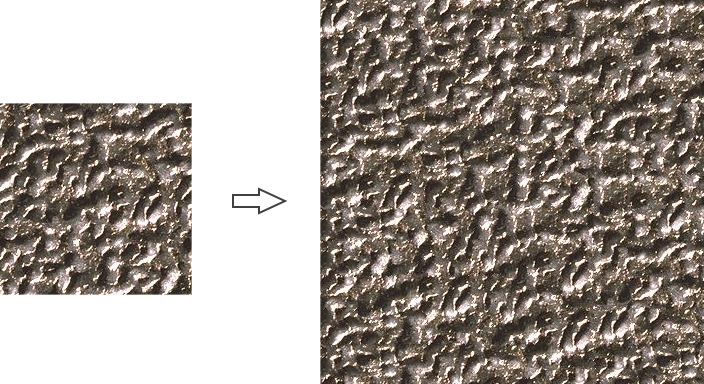
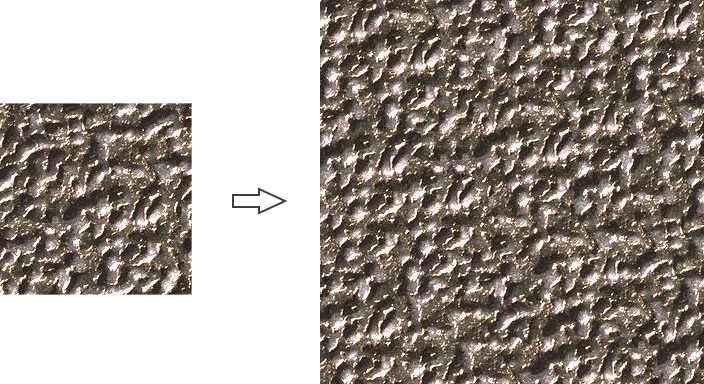
fix min cost boundary evaluation

diff --git a/src/imageQuilting.cpp b/src/imageQuilting.cpp
@@ -99,29 +99,31 @@ namespace
         auto edgeCost = [&](int x, int y)
         {
             return agz::math::sqr(
-                (A(yA + y, xA + x) - B(yB + y, xB + x + 1)).lum());
+                abs(A(yA + y, xA + x) - B(yB + y, xB + x + 1)).lum());
         };
 
         for(int xi = 0; xi < width - 1; ++xi)
             result(0, xi).cost = edgeCost(xi, 0);
 
-        for(int yi = 0; yi < height; ++yi)
+        for(int yi = 1; yi < height; ++yi)
         {
             for(int xi = 0; xi < width - 1; ++xi)
             {
                 const float costLeft = xi > 0 ?
-                    edgeCost(xi - 1, yi) : std::numeric_limits<float>::max();
+                    result(yi - 1, xi - 1).cost : std::numeric_limits<float>::max();
                 const float costMiddle =
-                    edgeCost(xi, yi);
+                    result(yi - 1, xi).cost;
                 const float costRight = xi < width - 2 ?
-                    edgeCost(xi + 1, yi) : std::numeric_limits<float>::max();
+                    result(yi - 1, xi + 1).cost : std::numeric_limits<float>::max();
+
+                const float ec = edgeCost(xi, yi);
 
                 if(costLeft <= costMiddle && costLeft <= costRight)
-                    result(yi, xi) = { costLeft, -1 };
+                    result(yi, xi) = { costLeft + ec, -1 };
                 else if(costMiddle <= costLeft && costMiddle <= costRight)
-                    result(yi, xi) = { costMiddle, 0 };
+                    result(yi, xi) = { costMiddle + ec, 0 };
                 else
-                    result(yi, xi) = { costRight, 1 };
+                    result(yi, xi) = { costRight + ec, 1 };
             }
         }
     }
@@ -141,28 +143,30 @@ namespace
         auto edgeCost = [&](int x, int y)
         {
             return agz::math::sqr(
-                (A(yA + y, xA + x) - B(yB + y + 1, xB + x)).lum());
+                abs(A(yA + y, xA + x) - B(yB + y + 1, xB + x)).lum());
         };
 
         for(int yi = 0; yi < height - 1; ++yi)
             result(yi, 0).cost = edgeCost(0, yi);
 
-        for(int xi = 0; xi < width; ++xi)
+        for(int xi = 1; xi < width; ++xi)
         {
             for(int yi = 0; yi < height - 1; ++yi)
             {
                 const float costNY = yi > 0 ?
-                    edgeCost(xi, yi - 1) : std::numeric_limits<float>::max();
-                const float costMY = edgeCost(xi, yi);
+                    result(yi - 1, xi - 1).cost : std::numeric_limits<float>::max();
+                const float costMY = result(yi, xi - 1).cost;
                 const float costPY = yi < height - 2 ?
-                    edgeCost(xi, yi + 1) : std::numeric_limits<float>::max();
+                    result(yi + 1, xi - 1).cost : std::numeric_limits<float>::max();
+
+                const float ec = edgeCost(xi, yi);
 
                 if(costNY <= costMY && costNY <= costPY)
-                    result(yi, xi) = { costNY, -1 };
+                    result(yi, xi) = { costNY + ec, -1 };
                 else if(costMY <= costNY && costMY <= costPY)
-                    result(yi, xi) = { costMY, 0 };
+                    result(yi, xi) = { costMY + ec, 0 };
                 else
-                    result(yi, xi) = { costPY, 1 };
+                    result(yi, xi) = { costPY + ec, 1 };
             }
         }
     }

diff --git a/README.md b/README.md
@@ -29,7 +29,7 @@ cmake -DCMAKE_BUILD_TYPE=Release ..
 
 #### example.1
 
-![](/gallery/example.1.png)
+![](./gallery/example.1.png)
 
 ```shell
 ./ImageQuilting.exe --input=input.png --output=output.png --blockW=100 --blockH=100 --width=384 --height=384
@@ -40,9 +40,22 @@ cmake -DCMAKE_BUILD_TYPE=Release ..
 ![](./gallery/example.2.png)
 
 ```shell
-./ImageQuilting.exe --input=input.png --output=output.png --blockW=100 --blockH=100 --width=384 --height=384
+./ImageQuilting.exe --input=input.png --output=output.png --blockW=50 --blockH=50 --width=384 --height=384
+```
+
+#### example.3
+
+![](./gallery/example.3.png)
+
+```shell
+./ImageQuilting.exe --input=input.png --output=output.png --width=384 --height=384 --blockW=40 --blockH=40
 ```
 
 #### example.4
 
 ![](./gallery/example.4.png)
+
+```shell
+./ImageQuilting.exe --input=input.png --output=output.png --width=384 --height=384 --blockW=90 --blockH=90 --mseBlock=true/false --minCutEdge=true/false --tolerance=0.05
+```
+
